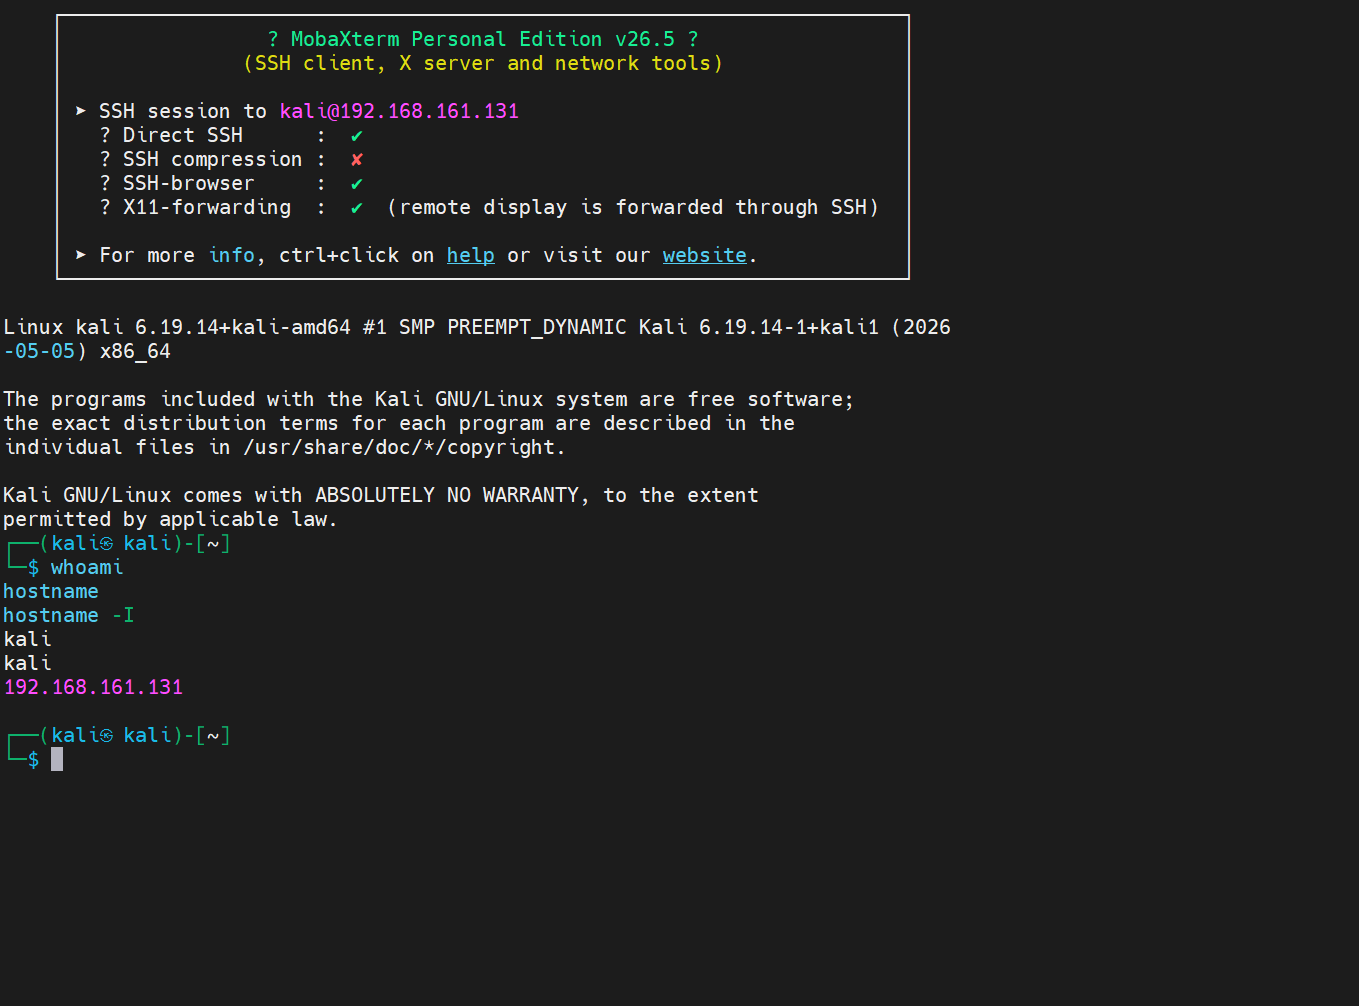
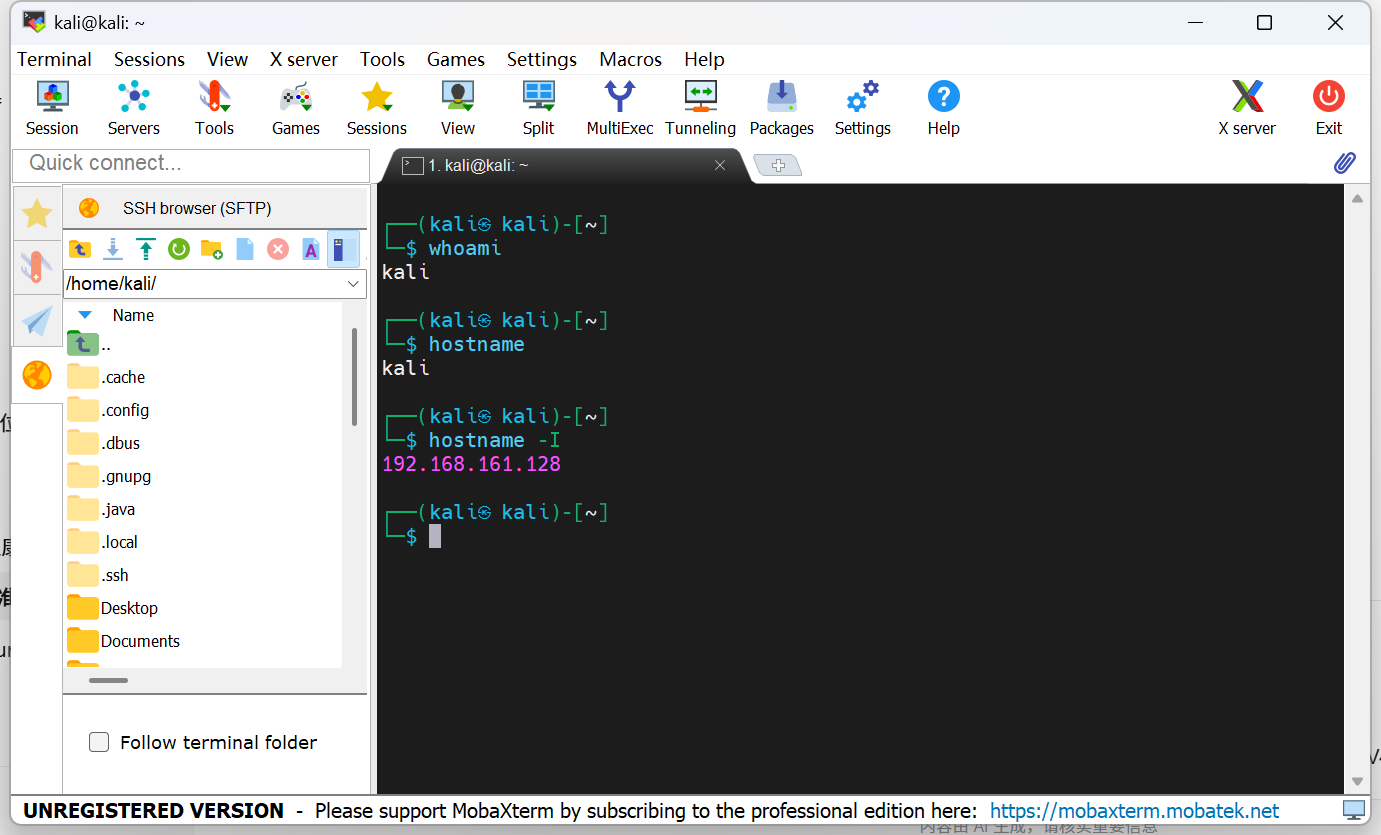
lab3

diff --git a/2026010033刘正康/Lab3/Lab3.md b/2026010033刘正康/Lab3/Lab3.md
@@ -223,10 +223,10 @@ df -h /
 
 | 项目 | 你的填写内容 |
 | :--- | :--- |
-| 宿主机内存 / CPU 核心 / 存放盘剩余空间 |16GB/8核/D盘剩120GB|
+| 宿主机内存 / CPU 核心 / 存放盘剩余空间 |16GB / 8 核 / D 盘剩余约 240GB|
 | 选择的配置档位 |课程推荐档 |
 | 虚拟 CPU 核心数 |2|
-| 虚拟内存 |3.8GB|
+| 虚拟内存 |6GB（`free -h` 显示 5.8Gi）|
 | 虚磁盘容量 |80GB |
 | 根分区可用空间 |59G |
 | 资源分配是否符合对应档位 |是 |
@@ -340,11 +340,11 @@ sudo apt update
 
 | 项目 | 你的填写内容 |
 | :--- | :--- |
-| 虚拟机 IP 地址 |192.168.161.131 |
-| 网络模式 | NAT / 其他： |
+| 虚拟机 IP 地址 |192.168.161.128 |
+| 网络模式 | NAT / 其他：NAT（VMnet8） |
 | ping `223.5.5.5` 是否成功 |成功 |
 | ping `mirrors.tuna.tsinghua.edu.cn` 是否成功 | 成功|
-| 软件源（官方源 / 已换的镜像站） | kali官方源|
+| 软件源（官方源 / 已换的镜像站） | 已换的镜像站（清华 TUNA，https）|
 | `sudo apt update` 是否成功 |成功 |
 | 联网是否合格 | 合格|
 
@@ -453,7 +453,7 @@ hostname -I
 
 | 项目 | 你的填写内容 |
 | :--- | :--- |
-| Kali 的 IP 地址 | 192.168.161.131|
+| Kali 的 IP 地址 | 192.168.161.128|
 | 登录用的 Kali 用户名 |kali |
 | 是否登录成功 | 成功|
 | 远程终端里 `whoami` 的输出 |kali |
@@ -713,14 +713,19 @@ sudo apt update
 | 验收项目 | 合格标准 | 你的结论 |
 | :--- | :--- | :--- |
 | 虚拟机联网 | 具有 IP 和默认路由，IP 联通与 DNS 解析正常 |正常 |
-| 软件源 | `sudo apt update` 成功，没有 `Err` 或 `Failed`（使用官方源或国内镜像站均可） |	sudo apt update |
+| 软件源 | `sudo apt update` 成功，没有 `Err` 或 `Failed`（使用官方源或国内镜像站均可） |	成功（已按第十五节换成清华 TUNA 镜像站） |
 | CPU、内存、存储 | 至少 2 核、4GB、40GB，且与宿主机档位匹配 |匹配 |
 | MobaXterm 远程登录 | 从 Windows 用 MobaXterm 能 SSH 登录 Kali 并在远程终端执行命令 |能 |
 | VSCode Remote-SSH | VSCode 能通过 Remote-SSH 连接 Kali，打开远程文件夹并在远程终端执行命令 | 能|
 
 简要说明你遇到的问题、解决方法，以及当前环境是否可以继续完成后续实验：
 
-> 填写：无
+> 遇到两个问题：
+>
+> 1. **`sudo apt update` 报 `Clearsigned file isn't valid, got 'NOSPLIT'`**。虚拟机一开始用桥接模式直接连到校园网，校园网对 HTTP 有认证拦截，`apt` 拿到的不是软件源数据。按第十五节附录把软件源换成清华 TUNA 镜像站（https）后恢复正常；同时把网卡改回课程要求的 NAT（VMnet8），让虚拟机通过宿主机已经认证过的线路出网。
+> 2. **虚拟机一度没有 IP、无法出网**。检查后发现是 VMware 的 NAT 服务异常，在 Windows 服务中重启 `VMware NAT Service` 后，虚拟机重新拿到 `192.168.161.128`，`ping` 与 `apt` 都正常。
+>
+> 目前 Kali 可以正常启动、联网、SSH 远程登录（MobaXterm 和 VSCode Remote-SSH 均已连通），可以继续完成后续实验。
 
 ---
 
